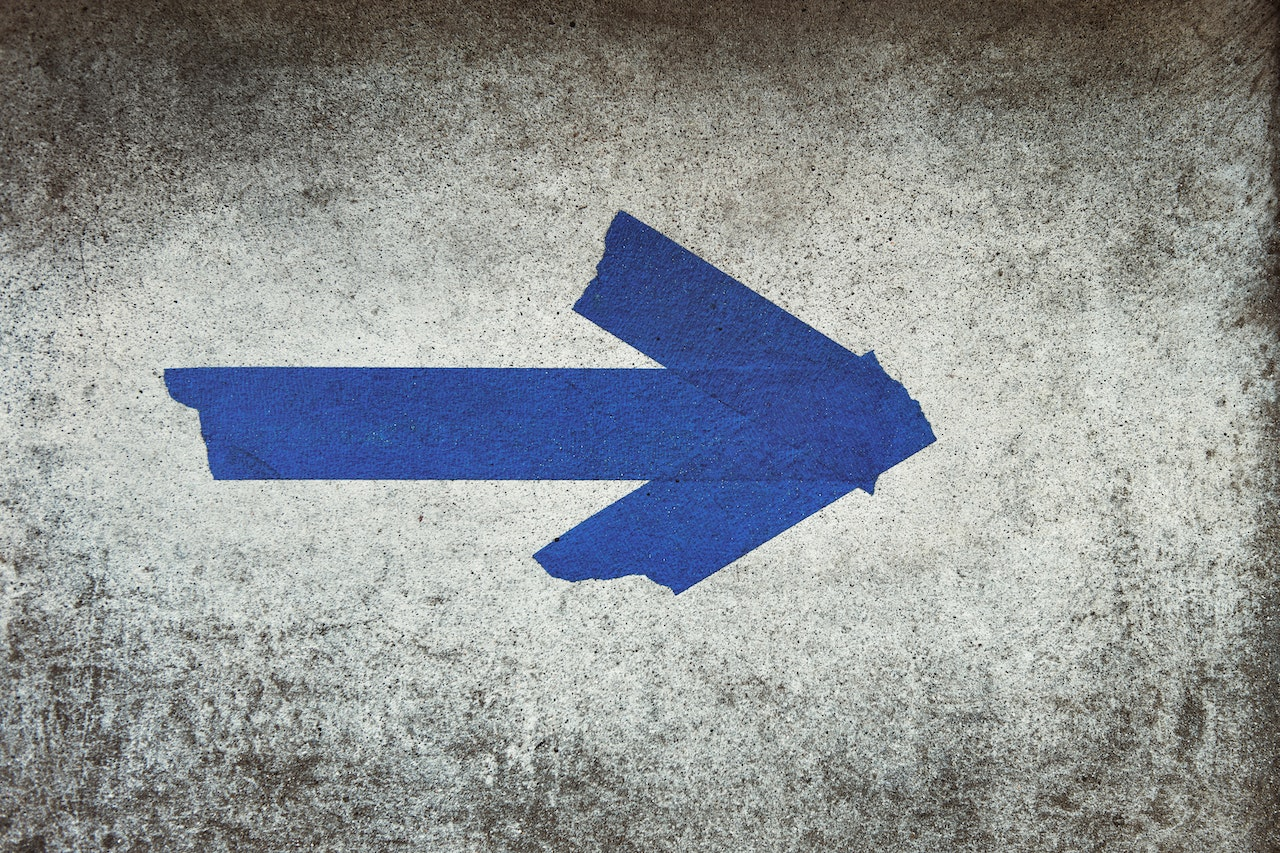
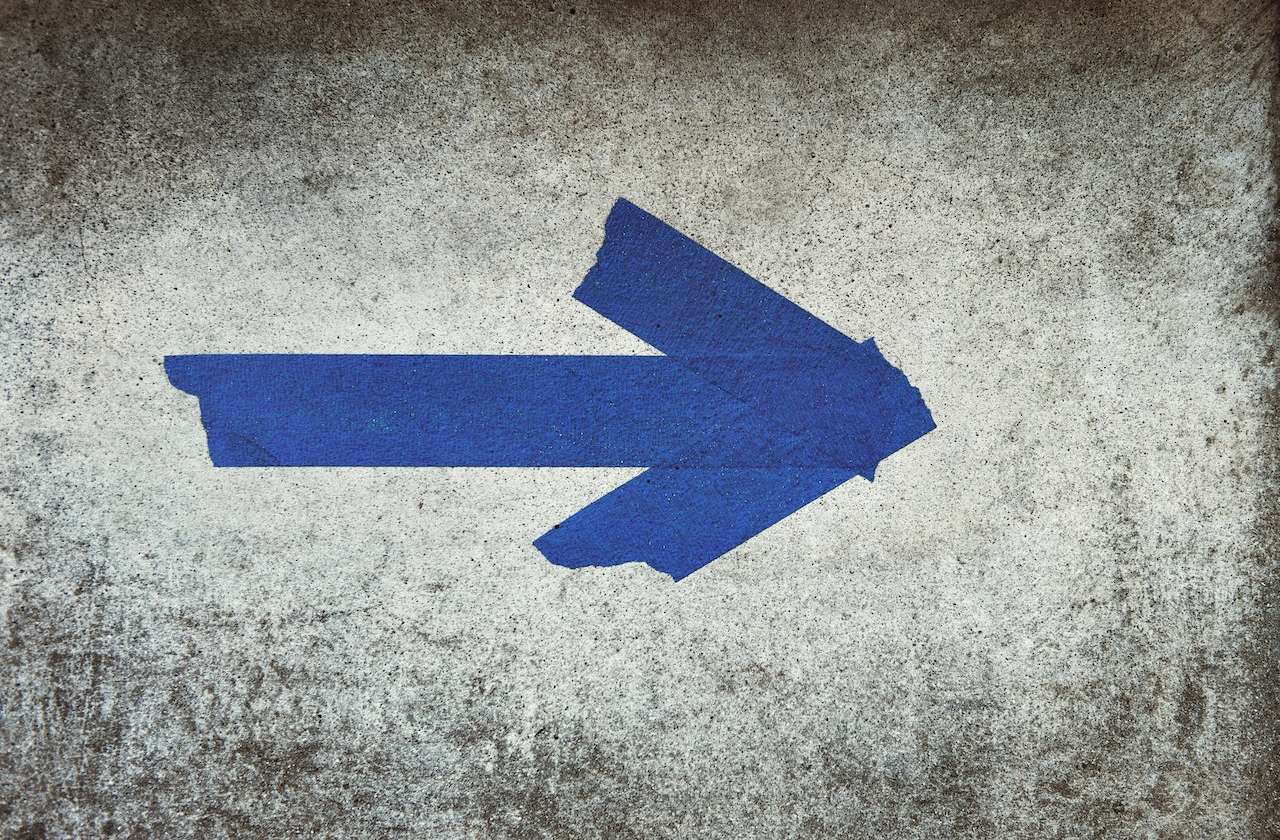
added post 'diagram- arrows'

diff --git a/docs/assets/css/custom.css b/docs/assets/css/custom.css
@@ -8,6 +8,11 @@
     margin-right: auto;
   }
 
+  img.lightborder {
+    border: 1px solid lightgray;
+    padding: 2px;
+  }
+
   img.float-right {
     float: right;
     clear: both;
@@ -20,6 +25,10 @@
 
   img.max-width-50 {
     max-width: 50%;
+  }
+
+  img.max-width-30 {
+    max-width: 30%;
   }
 
   .image-caption {

diff --git a/docs/assets/css/beautifuljekyll_override.css b/docs/assets/css/beautifuljekyll_override.css
@@ -47,6 +47,13 @@
   overflow: hidden;
 }
 
+.post-preview .post-image {
+  filter: sepia(0.2) brightness(0.9);
+}
+.post-preview .post-image:hover {
+  filter: sepia(0) brightness(1);
+}
+
 .intro-header.big-img .post-heading h1{
   background: rgba(0, 0, 0, 0.5);
 }

diff --git a/docs/_posts/2022-09-15-diagram-arrows.md b/docs/_posts/2022-09-15-diagram-arrows.md
@@ -23,7 +23,7 @@ Although it may seem something obvious, almost elementary, the meaning of arrows
 
 Let’s take a minimal, clear and simple scheme:
 
-![]({{page.imgs-path}}a-b.jpg){:.centered}
+![]({{page.imgs-path}}ab.jpg){:.centered .lightborder}
 
 {:.image-caption .text-align-center}
 Component A has *some relation* with component B
@@ -57,28 +57,31 @@ A single diagram cannot provide all the answers, and this is the reason why I th
 
 # So what?
 
-DISEGNARE LEGENDA A MANO LIBERA ED ESEMPI DI FRECCE CON TESTO
-
-![](/assets/img/hello_world.jpeg){: .float-right .max-width-50}
-
 To add details there are only a couple of possibilities:
-- adding a **label** to each arrow, which is not always the best option because the diagram will lose readability
-- introduce a **legend**, to give each type of arrow an understandable and ideally universal meaning
 
-In both cases there is a trade off between readability and explicitness.
+![]({{page.imgs-path}}labels.jpg){:.float-right .max-width-30 .lightborder}
+- *Add a **label** to each arrow*  
+This has the advantage of making the meaning quite clear, but it's not always the best option because the diagram will inevitably lose readability.
 
-![](/assets/img/hello_world.jpeg){: .float-right .max-width-50}
+![]({{page.imgs-path}}legend.jpg){:.float-right .max-width-30 .lightborder}
+- *Introduce a **legend** to the diagram*  
+In this way each graphical variation of arrow will have a different meaning. Great option to keep the diagram clean, but for the viewer can be tiring to learn the linguistic convention.
 
-In addition to a good **title** defining the purpose of the diagram, in my experience it is also important that the diagram comes with a short **description** to help the reader interpreting the diagram, providing a high-level overview.
+In both cases there is a considerable trade off between readability and explicitness.
+
+In addition to that we can also leverage a good **title** to define clearly the purpose of the diagram, and, as a consequence, the most likely meaning of the arrows.
+For example, in a diagram titled "Data ingestion flow", it's probably pretty much easy to imagine that the arrows are here to explain the direction of the data through the system, and not if the single call is a *pull* or a *push*.
+
+In my experience it is also useful to attach a short **description** to help the reader interpreting the diagram, providing a high-level overview that describes its purpose.
 
 Obviously writing a description or a legend are time-consuming activities, and therefore you have to evaluate the cost/benefit ratio.
 
 Fortunately, in some cases the **context** can be very useful to clarify the meaning of an arrow, or any other symbol within a diagram, but it's risky assuming that the context is clear to everyone and that any recipient will always be able to understand what we have in mind.
 
-Of course if the recipients of the diagram are people with whom you usually work, there is likely a kind of *shared common language*, so in most cases it's not necessary to be super specific. Also, in case of doubt it's easy to ask for a clarification.  
+Of course if the recipients of the diagram are people with whom you usually work, there is likely a kind of ***shared common language***, so in most cases it's not necessary to be super specific. Also, in case of doubt it's easy to ask for a clarification.  
 But when the diagram is going to be shared with another team, it is definitely a good idea to spend some extra time to make it as much clear as possible. This can minimize the likelihood of future misunderstandings, which could cost much, much more.
 
-![]({{page.imgs-path}}prehistoric.png){: .float-right .max-width-50}
+![]({{page.imgs-path}}prehistoric.jpg){: .float-right .max-width-50}
 
 # TLDR
 There's no secret recipe.  
